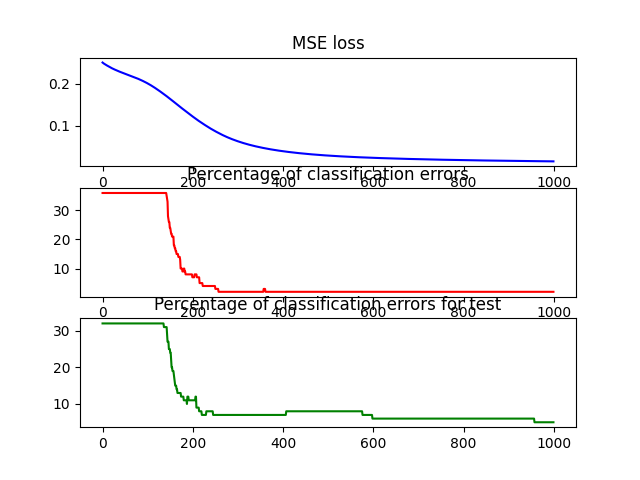
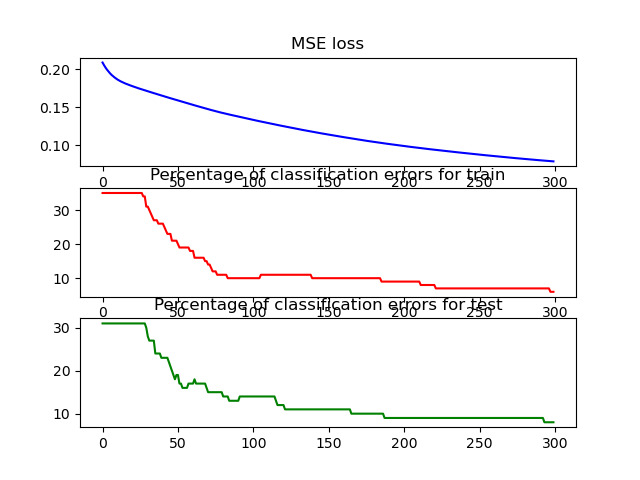
euhhhhhh

diff --git a/Projet_2/mini_torch.py b/Projet_2/mini_torch.py
@@ -1,8 +1,5 @@
 from torch import empty
-import torch
 import math
-
-from generate_data import *
 
 
 def MSEloss(v, t):
@@ -42,7 +39,7 @@ class Module:
 
 class linear(Module):
 
-    def __init__(self, nbinput, nboutput):
+    def __init__(self, nbinput, nboutput, epsilon = 0.3):
         super().__init__()
         self.w = empty(nboutput, nbinput).normal_(0, epsilon)
         self.b = empty(nboutput).normal_(0, epsilon)
@@ -163,9 +160,10 @@ class leaky_relu(Module):
 
 class sequential(Module):
 
-    def __init__(self, *args):
+    def __init__(self, *args, eta):
         super().__init__()
         self.layers = args
+        self.eta = eta
 
     def forward_pass(self, input_data):
         for layer in self.layers:
@@ -193,12 +191,12 @@ class sequential(Module):
                 #print("weight")
                 #print(weight)
                 #print(dw)
-                weight -= dw * eta
+                weight -= dw * self.eta
                 bias, db = par[1]
                 #print("bias")
                 #print(bias)
                 #print(db)
-                bias -= db * eta
+                bias -= db * self.eta
 
     def zero_grad(self):
         for layer in self.layers:
@@ -213,85 +211,3 @@ def classify(result, objective):
     result = result >= 0.5
     errors = result != objective
     return errors.sum()
-
-VERBOSE = 0
-
-nbiter = 1000
-nbdata = 1000
-eta_start = 1e-1 / nbdata
-epsilon = 0.3
-eta = eta_start
-
-train_input, train_label, test_input, test_label = generate_data(nbdata)
-mean, std = train_input.mean(), train_input.std()
-train_input.sub_(mean).div_(std)
-test_input.sub_(mean).div_(std)
-
-#train_label.zero_()
-#train_label += 1
-
-model = sequential(linear(2,25), leaky_relu(), linear(25,25), leaky_relu(), linear(25,25), leaky_relu(),linear(25, 1), sigmoid())
-par = model.param()
-
-#print(par)
-#print(train_label.size())
-#print(train_input)
-mod_loss = torch.zeros(nbiter)
-xest = torch.empty(nbdata,1)
-xest_test = torch.empty(nbdata,1)
-errors = torch.empty(nbiter)
-errors_test = torch.empty(nbiter)
-for i in range(nbiter):
-    #eta = eta_start * (1 - (i/nbiter))
-    print(model.param()[-1])
-    model.zero_grad()
-    print(model.param()[-1])
-    print("########")
-    for n in range(nbdata):
-        xest[n] = model.forward_pass(train_input[n])
-        #print(train_input[n], yest)
-        dloss = MSEdloss(xest[n], train_label[n])
-        #print(xest[n])
-        #print(train_label[n])
-        mod_loss[i] += MSEloss(xest[n], train_label[n])
-        model.backward_pass(dloss)
-
-        xest_test[n] = model.forward_pass(test_input[n])
-    model.step()
-
-    mod_loss[i] /= nbdata
-    errors[i] = classify(xest, train_label).item() / nbdata * 100
-    errors_test[i] = classify(xest_test, test_label).item() / nbdata * 100
-
-    print("###\n{0:.1f}% - MSE :  {1}".format(i / nbiter * 100, mod_loss[i]))
-    if VERBOSE:
-        print("        Classification error: {0:.1f}%".format(errors[i]))
-
-torch.set_printoptions(precision=2)
-
-for n in range(nbdata):
-    xest[n] = model.forward_pass(train_input[n])
-if VERBOSE:
-    print(xest.t())
-    print(train_label.t())
-print("Classification error:\n {0:.1f}%\n".format(classify(xest,train_label).item()/nbdata*100))
-#print(model.param())
-
-import matplotlib.pyplot as plt
-def close_event():
-    plt.close()
-fig = plt.figure()
-timer = fig.canvas.new_timer(interval=10000)
-#timer.add_callback(close_event)
-plt.subplot(3,1,1)
-plt.plot(mod_loss.numpy(), 'b')
-plt.title("MSE loss")
-plt.subplot(3,1,2)
-plt.plot(errors.numpy(), 'r')
-plt.title("Percentage of classification errors")
-plt.subplot(3,1,3)
-plt.plot(errors_test.numpy(), 'g')
-plt.title("Percentage of classification errors for test")
-plt.savefig("latest_data.png") # save the fig as png
-#timer.start()
-plt.show()

diff --git a/Projet_2/test.py b/Projet_2/test.py
@@ -1,0 +1,86 @@
+import torch
+from mini_torch import *
+from generate_data import *
+
+VERBOSE = 0
+
+nbiter = 300
+nbdata = 100
+
+epsilon = 0.3
+eta = 1e-1 / nbdata
+
+train_input, train_label, test_input, test_label = generate_data(nbdata)
+mean, std = train_input.mean(), train_input.std()
+train_input.sub_(mean).div_(std)
+test_input.sub_(mean).div_(std)
+
+model = sequential(linear(2,25, epsilon=epsilon), leaky_relu(), linear(25,25, epsilon=epsilon), leaky_relu(), linear(25,25, epsilon=epsilon), leaky_relu(),linear(25, 1, epsilon=epsilon), sigmoid(), eta = eta)
+
+mod_loss = torch.zeros(nbiter)
+xest = torch.empty(nbdata,1)
+xest_test = torch.empty(nbdata,1)
+errors = torch.empty(nbiter)
+errors_test = torch.empty(nbiter)
+
+for i in range(nbiter):
+    #eta = eta_start * (1 - (i/nbiter))
+    print(model.param()[-1])
+    model.zero_grad()
+    print(model.param()[-1])
+    print("########")
+    for n in range(nbdata):
+        xest[n] = model.forward_pass(train_input[n])
+        #print(train_input[n], yest)
+        dloss = MSEdloss(xest[n], train_label[n])
+        #print(xest[n])
+        #print(train_label[n])
+        mod_loss[i] += MSEloss(xest[n], train_label[n])
+        model.backward_pass(dloss)
+
+        xest_test[n] = model.forward_pass(test_input[n])
+    model.step()
+
+    mod_loss[i] /= nbdata
+    errors[i] = classify(xest, train_label).item() / nbdata * 100
+    errors_test[i] = classify(xest_test, test_label).item() / nbdata * 100
+
+    print("###\n{0:.1f}% - MSE :  {1}".format(i / nbiter * 100, mod_loss[i]))
+    if VERBOSE:
+        print("        Classification error: {0:.1f}%".format(errors[i]))
+
+torch.set_printoptions(precision=2)
+
+for n in range(nbdata):
+    xest[n] = model.forward_pass(train_input[n])
+if VERBOSE:
+    print(xest.t())
+    print(train_label.t())
+print("Classification error:\n {0:.1f}%\n".format(classify(xest,train_label).item()/nbdata*100))
+#print(model.param())
+
+import matplotlib.pyplot as plt
+def close_event():
+    plt.close()
+fig = plt.figure()
+timer = fig.canvas.new_timer(interval=10000)
+#timer.add_callback(close_event)
+plt.subplot(3,1,1)
+plt.plot(mod_loss.numpy(), 'b')
+plt.title("MSE loss")
+plt.subplot(3,1,2)
+plt.plot(errors.numpy(), 'r')
+plt.title("Percentage of classification errors for train")
+plt.subplot(3,1,3)
+plt.plot(errors_test.numpy(), 'g')
+plt.title("Percentage of classification errors for test")
+plt.savefig("latest_data.png") # save the fig as png
+#timer.start()
+plt.show()
+
+heat_size = 100
+heatmap = torch.empty(heat_size**2, 3)
+for i in range(0,heat_size**2,heat_size):
+    for j in range(heat_size):
+        heatmap[i][0] = i/heat_size
+        heatmap[i+j][1] = j/heat_size
